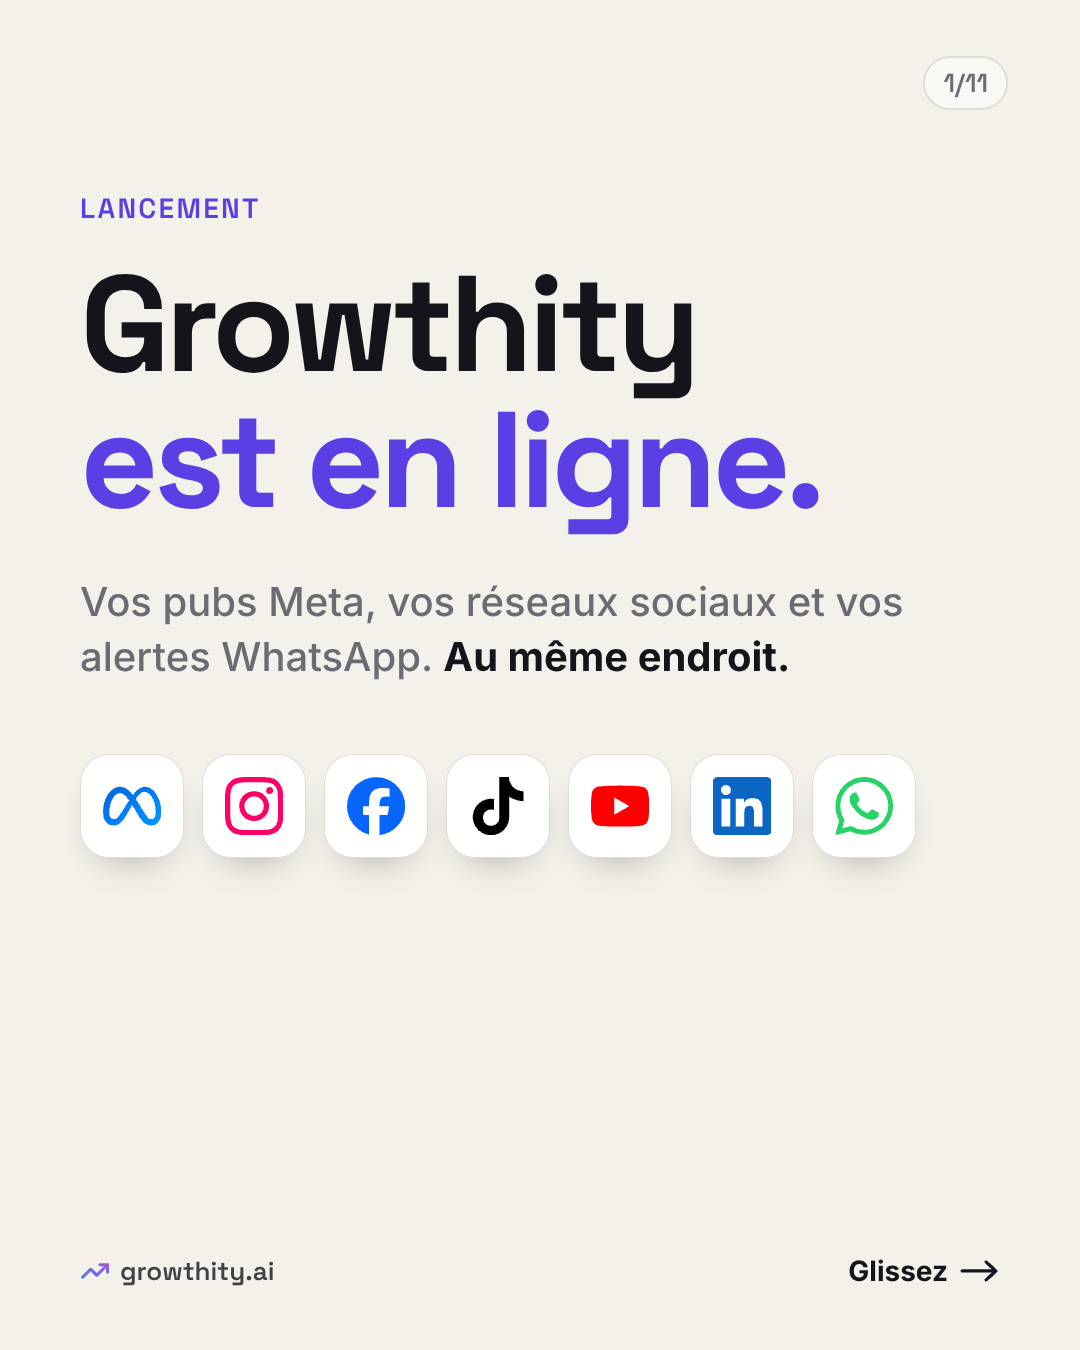
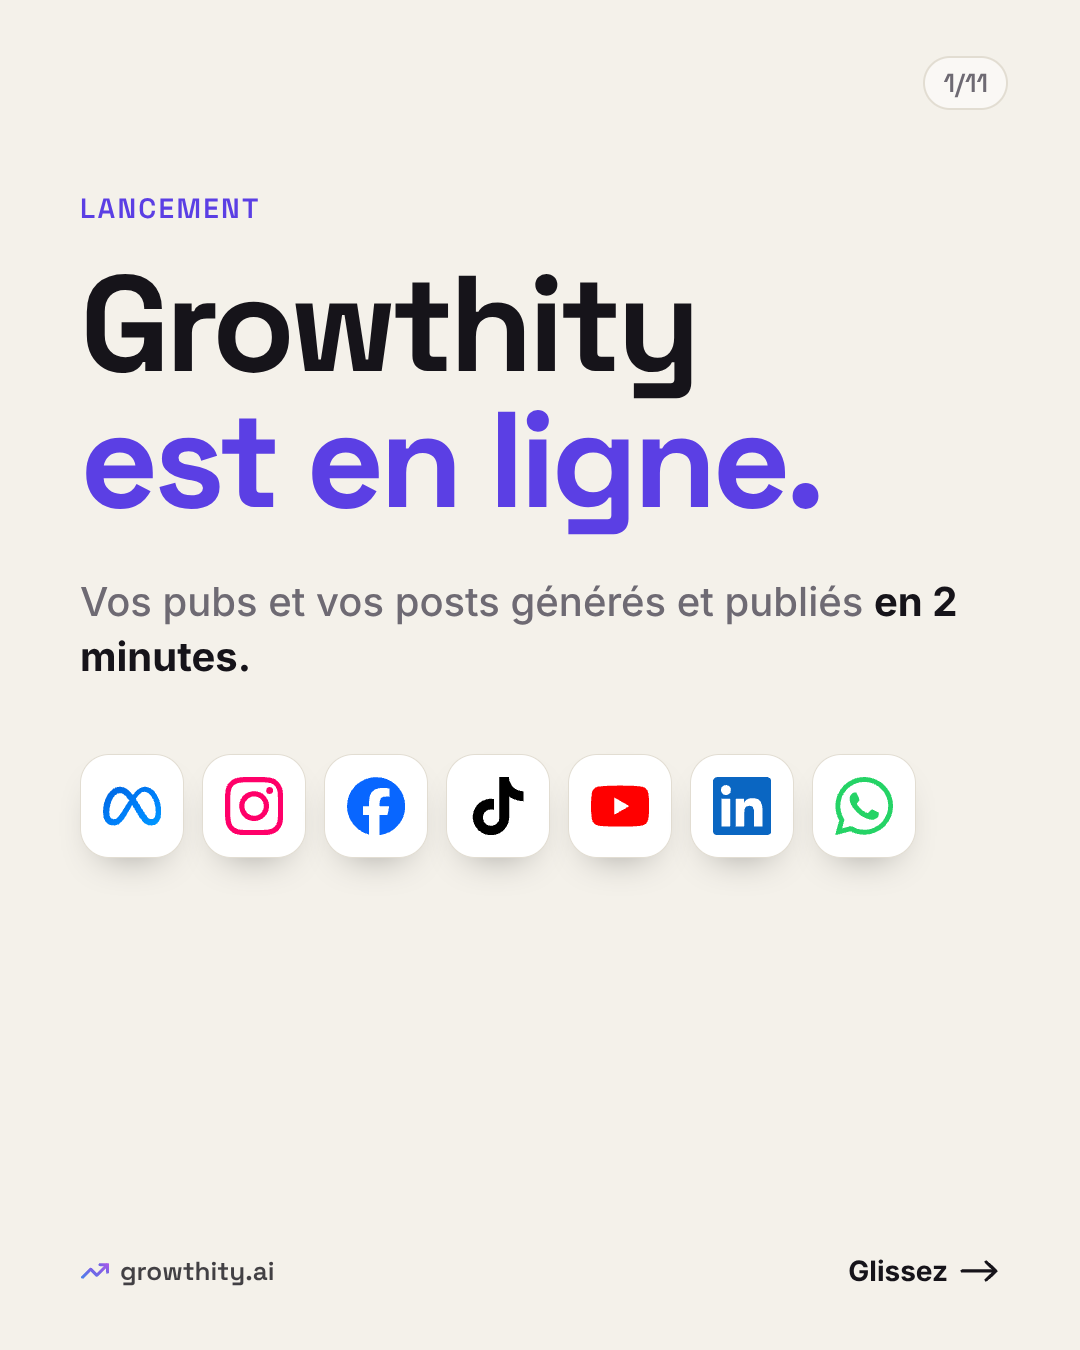
Carrousel lancement : nouvelle phrase de couverture
Claude-Session: https://claude.ai/code/session_01VHM8J4qZP9BG7R8qb7po22

Changed region(s): [[0.0611, 0.4356, 0.8861, 0.4978]]

diff --git a/video/src/organic/Organic.tsx b/video/src/organic/Organic.tsx
@@ -543,7 +543,7 @@ const P8Cover: React.FC = () => (
     <div style={{position: 'absolute', left: M, right: M, top: 190}}>
       <Kicker>Lancement</Kicker>
       <Title size={136} style={{marginTop: 30}}>Growthity<br /><span style={{color: ACCENT}}>est en ligne.</span></Title>
-      <Body size={40} style={{marginTop: 46, maxWidth: 880}}>Vos pubs Meta, vos réseaux sociaux et vos alertes WhatsApp. <b style={{color: INK}}>Au même endroit.</b></Body>
+      <Body size={40} style={{marginTop: 46, maxWidth: 880}}>Vos pubs et vos posts générés et publiés <b style={{color: INK}}>en 2 minutes.</b></Body>
       <div style={{display: 'flex', gap: 18, marginTop: 70, flexWrap: 'wrap'}}>
         {['meta', 'instagram', 'facebook', 'tiktok', 'youtube', 'linkedin', 'whatsapp'].map((k) => <P8BrandChip key={k} k={k} s={104} />)}
       </div>
